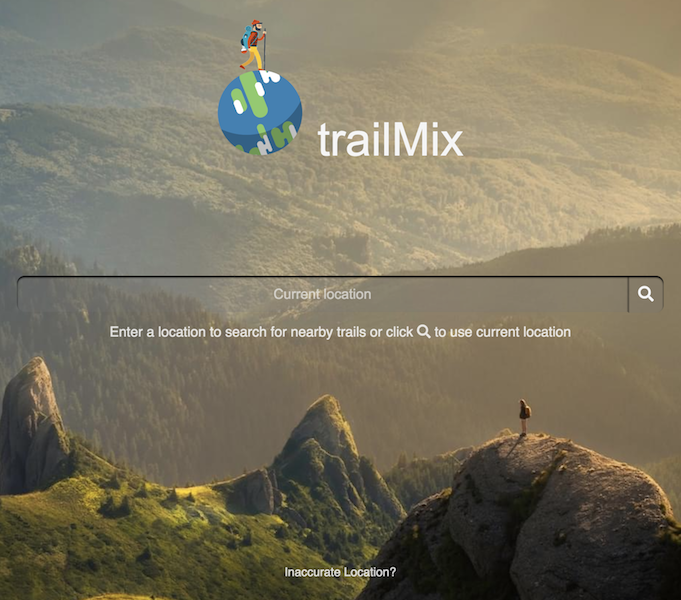
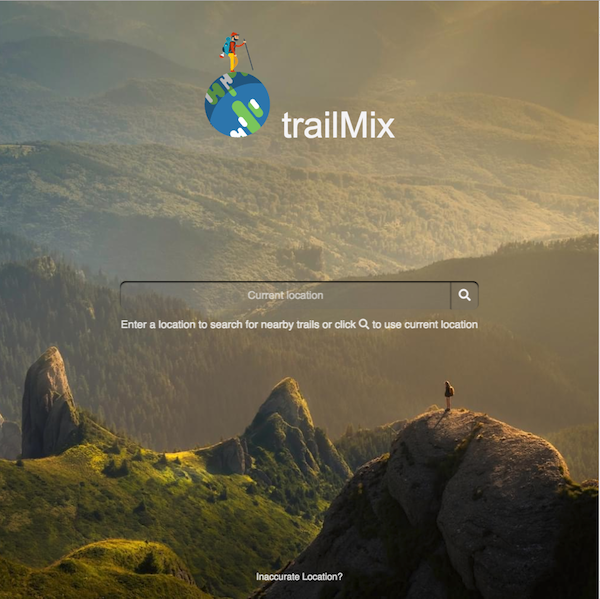
update background image

diff --git a/index.html b/index.html
@@ -94,7 +94,7 @@
 
     <!-- home
     ================================================== -->
-    <section id="home" class="s-home target-section" data-parallax="scroll" data-image-src="images/background/photo-1462733441571-9312d0b53818.jpeg" data-natural-width=3000 data-natural-height=2000 data-position-y=center>
+    <section id="home" class="s-home target-section" data-parallax="scroll" data-image-src="images/background/photo-1495171081156-cc1209ddf6a0.jpeg" data-natural-width=3000 data-natural-height=2000 data-position-y=center>
 
         <div class="overlay"></div>
         <div class="shadow-overlay"></div>
